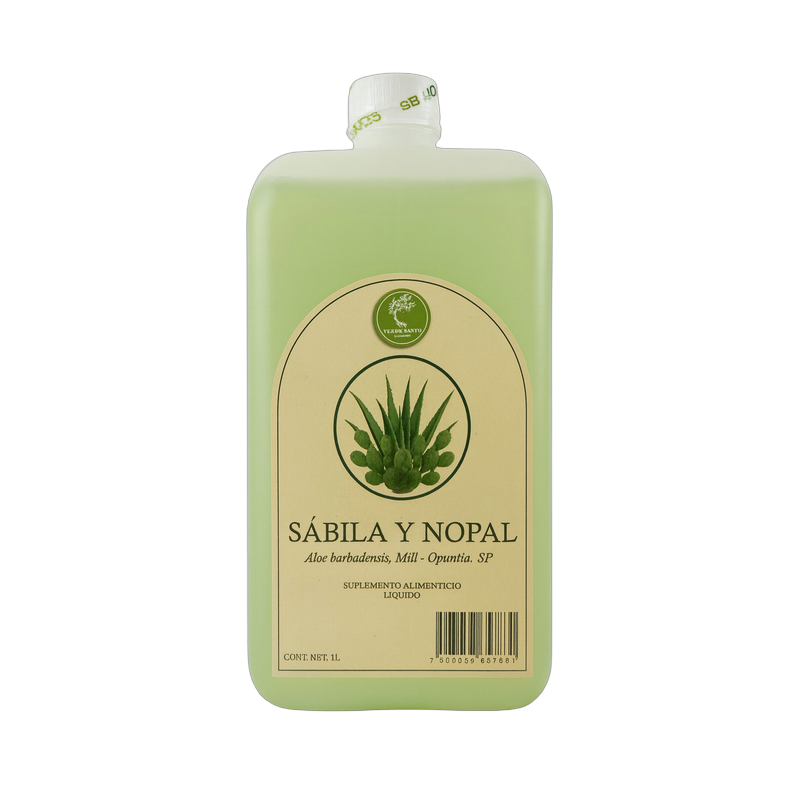
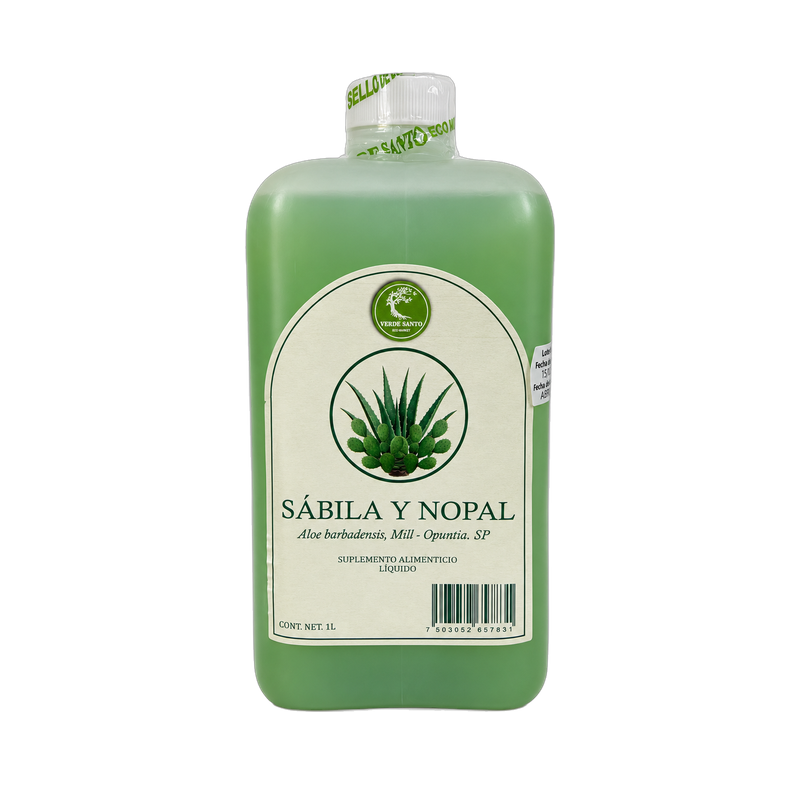
Marca Cuatro Abuelas y fotos nuevas de Verde Santo y OZ Automotriz (#59)
* Cuatro Abuelas: marca nueva para los jugos PET y fotos nuevas de Verde Santo y OZ Automotriz

Claude-Session: https://claude.ai/code/session_01AKrZmH1crbVXwHC9NZ5z29

* Verde Santo: costos Macro de la lista NOV26 y Miel de Caña a $299

Claude-Session: https://claude.ai/code/session_01AKrZmH1crbVXwHC9NZ5z29

* Cuatro Abuelas Tatemado $150 confirmado; OZ APC Citrus galón $399 de la lista Magno

Claude-Session: https://claude.ai/code/session_01AKrZmH1crbVXwHC9NZ5z29

* Sábilas 1 L a $199 público

Claude-Session: https://claude.ai/code/session_01AKrZmH1crbVXwHC9NZ5z29

* OZ Pintura para Llantas a $199

Claude-Session: https://claude.ai/code/session_01AKrZmH1crbVXwHC9NZ5z29

* OZ Negro Absoluto a $89

Claude-Session: https://claude.ai/code/session_01AKrZmH1crbVXwHC9NZ5z29

---------

Changed region(s): [[0.2812, 0.0938, 0.7188, 0.9062]]

diff --git a/src/PedidoTabla.jsx b/src/PedidoTabla.jsx
@@ -455,7 +455,7 @@ const productCatalog = [
   {
     id: "vs-jugo-pet-puro-1l",
     sku: "VS001-PURO",
-    brand: "Verde Santo",
+    brand: "Cuatro Abuelas",
     product: "JUGO DE MAGUEY PURO",
     category: "Jugo de Maguey",
     subcategory: "Jugo Pet",
@@ -469,9 +469,11 @@ const productCatalog = [
     mostrador: 150.00,
     digital: 150.00,
     image:
-      "https://res.cloudinary.com/dl2s0vpwb/image/upload/f_auto,q_auto,w_400/v1791959668/verde-santo/vs-jugo-pet-puro-1l.png",
+      "https://res.cloudinary.com/dl2s0vpwb/image/upload/f_auto,q_auto,w_400/cuatro-abuelas/vs-jugo-pet-puro-1l.png",
     kitImage:
-      "/assets/verde-santo/productos/vs-jugo-pet-puro-1l.png",
+      "/assets/cuatro-abuelas/productos/vs-jugo-pet-puro-1l.png",
+    // Botella más angosta que la PET de Verde Santo: mismo alto en el kit.
+    kitVolumenMl: 1089,
   },
 
   {
@@ -609,7 +611,7 @@ const productCatalog = [
   {
     id: "vs-jugo-pet-nopal-1l",
     sku: "VS001-NOPAL",
-    brand: "Verde Santo",
+    brand: "Cuatro Abuelas",
     product: "JUGO DE MAGUEY CON NOPAL",
     category: "Jugo de Maguey",
     subcategory: "Jugo Pet",
@@ -623,15 +625,17 @@ const productCatalog = [
     mostrador: 150.00,
     digital: 150.00,
     image:
-      "https://res.cloudinary.com/dl2s0vpwb/image/upload/f_auto,q_auto,w_400/v1791959671/verde-santo/vs-jugo-pet-nopal-1l.png",
+      "https://res.cloudinary.com/dl2s0vpwb/image/upload/f_auto,q_auto,w_400/cuatro-abuelas/vs-jugo-pet-nopal-1l.png",
     kitImage:
-      "/assets/verde-santo/productos/vs-jugo-pet-nopal-1l.png",
+      "/assets/cuatro-abuelas/productos/vs-jugo-pet-nopal-1l.png",
+    // Botella más angosta que la PET de Verde Santo: mismo alto en el kit.
+    kitVolumenMl: 1089,
   },
 
   {
     id: "vs-jugo-pet-aloe-vera-1l",
     sku: "VS001-ALOEVERA",
-    brand: "Verde Santo",
+    brand: "Cuatro Abuelas",
     product: "JUGO DE MAGUEY CON ALOE VERA",
     category: "Jugo de Maguey",
     subcategory: "Jugo Pet",
@@ -645,9 +649,32 @@ const productCatalog = [
     mostrador: 150.00,
     digital: 150.00,
     image:
-      "https://res.cloudinary.com/dl2s0vpwb/image/upload/f_auto,q_auto,w_400/v1791959674/verde-santo/vs-jugo-pet-aloe-vera-1l.png",
+      "https://res.cloudinary.com/dl2s0vpwb/image/upload/f_auto,q_auto,w_400/cuatro-abuelas/vs-jugo-pet-aloe-vera-1l.png",
     kitImage:
-      "/assets/verde-santo/productos/vs-jugo-pet-aloe-vera-1l.png",
+      "/assets/cuatro-abuelas/productos/vs-jugo-pet-aloe-vera-1l.png",
+    // Botella más angosta que la PET de Verde Santo: mismo alto en el kit.
+    kitVolumenMl: 1089,
+  },
+
+  {
+    id: "ca-jugo-tatemado-11-plantas-1l",
+    sku: "CA-TATEMADO-11-PLANTAS",
+    brand: "Cuatro Abuelas",
+    product: "JUGO DE MAGUEY TATEMADO + 11 PLANTAS",
+    category: "Jugo de Maguey",
+    subcategory: "Jugo Pet",
+    description: "EXTRACTO TATEMADO + 11 PLANTAS · BOTELLA PET 1 LT",
+    presentation: "PET",
+    variant: "Tatemado",
+    // $150 público (Diego, 2026-11-24: "los jugos 4 abuelas 150 publico"); costo igual a los demás jugos PET.
+    price: 85.00,
+    unitPrice: 85.00,
+    mayoreo: 85.00,
+    mostrador: 150.00,
+    digital: 150.00,
+    image: "https://res.cloudinary.com/dl2s0vpwb/image/upload/f_auto,q_auto,w_400/cuatro-abuelas/ca-jugo-tatemado-11-plantas-1l.png",
+    kitImage: "/assets/cuatro-abuelas/productos/ca-jugo-tatemado-11-plantas-1l.png",
+    kitVolumenMl: 1089,
   },
 
   {
@@ -1063,7 +1090,7 @@ const productCatalog = [
   {
     id: "vs003-vinagre-manzana-pet-1l",
     sku: "VS003",
-    brand: "Verde Santo",
+    brand: "Cuatro Abuelas",
     product: "VINAGRE DE MANZANA",
     category: "Vinagre de Manzana",
     subcategory: "Vinagre Pet",
@@ -1076,9 +1103,11 @@ const productCatalog = [
     mostrador: 150.00,
     digital: 150.00,
     image:
-      "https://res.cloudinary.com/dhldooapx/image/upload/f_auto,q_auto,w_400/v1762466951/base_ezlxen.jpg",
+      "https://res.cloudinary.com/dl2s0vpwb/image/upload/f_auto,q_auto,w_400/cuatro-abuelas/vs003-vinagre-manzana-pet-1l.png",
     kitImage:
-      "/assets/verde-santo/productos/vs003-vinagre-manzana-pet-1l.png",
+      "/assets/cuatro-abuelas/productos/vs003-vinagre-manzana-pet-1l.png",
+    // Botella más angosta que la PET de Verde Santo: mismo alto en el kit.
+    kitVolumenMl: 1089,
   },
   {
     id: "vs004-vinagre-manzana-cristal-1l",
@@ -1096,7 +1125,7 @@ const productCatalog = [
     mostrador: 199.00,
     digital: 199.00,
     image:
-      "https://res.cloudinary.com/dhldooapx/image/upload/f_auto,q_auto,w_400/v1762466432/ec6e8842b12960986f38165be75c9d3e0b48be5b9a6a340079da23f019e3fd25_xcxlvx.png",
+      "https://res.cloudinary.com/dl2s0vpwb/image/upload/f_auto,q_auto,w_400/verde-santo/vs004-vinagre-manzana-cristal-1l-v2.png",
     kitImage:
       "/assets/verde-santo/productos/vs004-vinagre-manzana-cristal-1l.png",
   },
@@ -1110,13 +1139,14 @@ const productCatalog = [
     description: "CON MADRE · BOTELLA PET 2 LT",
     presentation: "PET",
     variant: "Pet 2 L",
-    price: 0,
-    unitPrice: 0,
-    mayoreo: 0,
+    // Costo = Macro de la lista Verde Santo NOV26 de Diego; Mayoreo = Digital hasta que Diego lo dé.
+    price: 90.00,
+    unitPrice: 90.00,
+    mayoreo: 199.00,
     mostrador: 199.00,
     digital: 199.00,
     image:
-      "https://res.cloudinary.com/diefezach/image/upload/f_auto,q_auto,w_400/v1749501816/V2L_z8hzvh.webp",
+      "https://res.cloudinary.com/dl2s0vpwb/image/upload/f_auto,q_auto,w_400/verde-santo/vs-vinagre-manzana-pet-2l-v2.png",
     kitImage:
       "/assets/verde-santo/productos/vs-vinagre-manzana-pet-2l.png",
   },
@@ -1138,11 +1168,32 @@ const productCatalog = [
     mostrador: 299.00,
     digital: 299.00,
     image:
-      "https://res.cloudinary.com/dhldooapx/image/upload/f_auto,q_auto,w_400/v1746042175/sgosvhk1dlpojh3fmbbp_w8go48.webp",
+      "https://res.cloudinary.com/dl2s0vpwb/image/upload/f_auto,q_auto,w_400/verde-santo/vs005-miel-agave-cristal-1370kg-v2.png",
     // 1.370 kg de miel caben en una botella de 1 L.
     kitVolumenMl: 1000,
     kitImage:
       "/assets/verde-santo/productos/vs005-miel-agave-cristal-1370kg.png",
+  },
+  {
+    id: "vs-miel-cana-1l",
+    sku: "VS-MIEL-CANA-1L",
+    brand: "Verde Santo",
+    product: "MIEL DE CAÑA",
+    category: "Miel de Caña",
+    subcategory: "Miel de Caña",
+    description: "JARABE DE PILONCILLO BLACKSTRAP · BOTELLA DE CRISTAL 1 LT",
+    presentation: "Cristal",
+    variant: "1 L",
+    // Costo = Macro de la lista Verde Santo NOV26 de Diego; Mayoreo = Digital hasta que Diego lo dé.
+    price: 120.00,
+    unitPrice: 120.00,
+    mayoreo: 299.00,
+    mostrador: 299.00,
+    digital: 299.00,
+    image: "https://res.cloudinary.com/dl2s0vpwb/image/upload/f_auto,q_auto,w_400/verde-santo/vs-miel-cana-1l.png",
+    kitImage: "/assets/verde-santo/productos/vs-miel-cana-1l.png",
+    // Misma botella que la Miel de Agave.
+    kitVolumenMl: 1000,
   },
 
   // INULINA DE AGAVE
@@ -1361,13 +1412,14 @@ const productCatalog = [
     description: "ALIMENTO LÍQUIDO · 4 LT",
     presentation: "4 LT",
     variant: "4 L",
-    price: 0,
-    unitPrice: 0,
-    mayoreo: 0,
+    // Costo = Macro de la lista Verde Santo NOV26 de Diego; Mayoreo = Digital hasta que Diego lo dé.
+    price: 98.00,
+    unitPrice: 98.00,
+    mayoreo: 169.00,
     mostrador: 169.00,
     digital: 169.00,
     image:
-      "https://res.cloudinary.com/diefezach/image/upload/f_auto,q_auto,w_400/v1756932691/ur3gpgugdgo3heurt8tb_cxnruo.webp",
+      "https://res.cloudinary.com/dl2s0vpwb/image/upload/f_auto,q_auto,w_400/verde-santo/vs-nectar-colibri-4l-v2.png",
     kitImage:
       "/assets/verde-santo/productos/vs-nectar-colibri-4l.png",
   },
@@ -1383,13 +1435,15 @@ const productCatalog = [
     description: "BEBIDA EN GARRAFA · 1 LT",
     presentation: "1 LT",
     variant: "Sábila",
-    price: 0,
-    unitPrice: 0,
-    mayoreo: 0,
-    mostrador: 89.00,
-    digital: 89.00,
+    // Costo = Macro de la lista Verde Santo NOV26 de Diego; Mayoreo = Digital hasta que Diego lo dé.
+    // $199 público (Diego, 2026-11-24: "los de galonsito 199").
+    price: 45.00,
+    unitPrice: 45.00,
+    mayoreo: 199.00,
+    mostrador: 199.00,
+    digital: 199.00,
     image:
-      "https://res.cloudinary.com/dhldooapx/image/upload/f_auto,q_auto,w_400/v1760036988/sabila_eqvwn3.jpg",
+      "https://res.cloudinary.com/dl2s0vpwb/image/upload/f_auto,q_auto,w_400/verde-santo/vs-bebida-sabila-1l-v2.png",
     kitImage:
       "/assets/verde-santo/productos/vs-bebida-sabila-1l.png",
   },
@@ -1403,13 +1457,15 @@ const productCatalog = [
     description: "BEBIDA EN GARRAFA · 1 LT",
     presentation: "1 LT",
     variant: "Sábila y Nopal",
-    price: 0,
-    unitPrice: 0,
-    mayoreo: 0,
-    mostrador: 89.00,
-    digital: 89.00,
+    // Costo = Macro de la lista Verde Santo NOV26 de Diego; Mayoreo = Digital hasta que Diego lo dé.
+    // $199 público (Diego, 2026-11-24: "los de galonsito 199").
+    price: 45.00,
+    unitPrice: 45.00,
+    mayoreo: 199.00,
+    mostrador: 199.00,
+    digital: 199.00,
     image:
-      "https://res.cloudinary.com/dhldooapx/image/upload/f_auto,q_auto,w_400/v1760036988/sabnop_vocqdn.jpg",
+      "https://res.cloudinary.com/dl2s0vpwb/image/upload/f_auto,q_auto,w_400/verde-santo/vs-bebida-sabila-nopal-1l-v2.png",
     kitImage:
       "/assets/verde-santo/productos/vs-bebida-sabila-nopal-1l.png",
   },
@@ -1423,15 +1479,70 @@ const productCatalog = [
     description: "BEBIDA EN GARRAFA · 1 LT",
     presentation: "1 LT",
     variant: "Sábila, Nopal y Cuachalalate",
-    price: 0,
-    unitPrice: 0,
-    mayoreo: 0,
-    mostrador: 89.00,
-    digital: 89.00,
+    // Costo = Macro de la lista Verde Santo NOV26 de Diego; Mayoreo = Digital hasta que Diego lo dé.
+    // $199 público (Diego, 2026-11-24: "los de galonsito 199").
+    price: 45.00,
+    unitPrice: 45.00,
+    mayoreo: 199.00,
+    mostrador: 199.00,
+    digital: 199.00,
     image:
-      "https://res.cloudinary.com/dhldooapx/image/upload/f_auto,q_auto,w_400/v1760036988/sabnocua_zxdvyn.jpg",
+      "https://res.cloudinary.com/dl2s0vpwb/image/upload/f_auto,q_auto,w_400/verde-santo/vs-bebida-sabila-nopal-cuachalalate-1l-v2.png",
     kitImage:
       "/assets/verde-santo/productos/vs-bebida-sabila-nopal-cuachalalate-1l.png",
+  },
+
+  // OZ AUTOMOTRIZ (fotos de Diego, 2026-11-24)
+  {
+    id: "oz-apc-citrus-neutro-3-78l",
+    sku: "OZ-APC-CITRUS-3780",
+    brand: "OZ Automotriz",
+    product: "APC CITRUS NEUTRO",
+    category: "OZ Automotriz",
+    description: "LIMPIADOR CONCENTRADO MULTIUSOS RINDE 1:20 · GALÓN 3.78 LT",
+    variant: "Galón",
+    // Lista Magno "PRECIOS 2026": APC Citrus Neutro GLN macro $199.50, público $399. Mayoreo = Digital hasta que Diego lo dé.
+    price: 199.50,
+    unitPrice: 199.50,
+    mayoreo: 399.00,
+    mostrador: 399.00,
+    digital: 399.00,
+    image: "https://res.cloudinary.com/dl2s0vpwb/image/upload/f_auto,q_auto,w_400/oz-automotriz/oz-apc-citrus-neutro-3-78l.png",
+    kitImage: "/assets/oz-automotriz/productos/oz-apc-citrus-neutro-3-78l.png",
+  },
+  {
+    id: "oz-pintura-llantas-lata",
+    sku: "OZ-PINTURA-LLANTAS",
+    brand: "OZ Automotriz",
+    product: "PINTURA PARA LLANTAS PROFESIONAL",
+    category: "OZ Automotriz",
+    description: "ACABADO INTENSO · LATA",
+    variant: "Lata",
+    // $199 público (Diego, 2026-11-24). Costo y Mayoreo = Digital hasta que Diego los dé.
+    price: 199.00,
+    unitPrice: 199.00,
+    mayoreo: 199.00,
+    mostrador: 199.00,
+    digital: 199.00,
+    image: "https://res.cloudinary.com/dl2s0vpwb/image/upload/f_auto,q_auto,w_400/oz-automotriz/oz-pintura-llantas-lata.png",
+    kitImage: "/assets/oz-automotriz/productos/oz-pintura-llantas-lata.png",
+  },
+  {
+    id: "oz-negro-absoluto-180g",
+    sku: "OZ-NEGRO-ABSOLUTO-180",
+    brand: "OZ Automotriz",
+    product: "NEGRO ABSOLUTO RESTAURADOR",
+    category: "OZ Automotriz",
+    description: "RENOVADOR DE PLÁSTICOS, GOMAS, LLANTAS Y HULES · FRASCO 180 GR",
+    variant: "180 g",
+    // $89 público (Diego, 2026-11-24: "89 el oz 150 g"; la etiqueta dice 180 g). Costo y Mayoreo = Digital hasta que Diego los dé.
+    price: 89.00,
+    unitPrice: 89.00,
+    mayoreo: 89.00,
+    mostrador: 89.00,
+    digital: 89.00,
+    image: "https://res.cloudinary.com/dl2s0vpwb/image/upload/f_auto,q_auto,w_400/oz-automotriz/oz-negro-absoluto-180g.png",
+    kitImage: "/assets/oz-automotriz/productos/oz-negro-absoluto-180g.png",
   },
 
   // RETOKCAR · Esmalte retocador automotriz 15 ml.
@@ -2865,6 +2976,7 @@ const MARCAS_PRECIO_FIJO = [
   "fratelo",
   "magníficos de la limpieza",
   "dtup",
+  "oz automotriz",
 ];
 
 function esMarcaPrecioFijo(brand = "") {
@@ -2895,6 +3007,7 @@ function precioPublico(
 
     if (
       brandNormalizada === "verde santo" ||
+      brandNormalizada === "cuatro abuelas" ||
       esMarcaPrecioFijo(brandNormalizada)
     ) {
   const precioInterno = Number(
@@ -3071,6 +3184,7 @@ const MARCAS_PUBLICAN_DIGITAL_EN_ML = [
   "fratelo",
   "magníficos de la limpieza",
   "dtup",
+  "oz automotriz",
 ];
 
 function publicaDigitalEnML(item = {}) {
